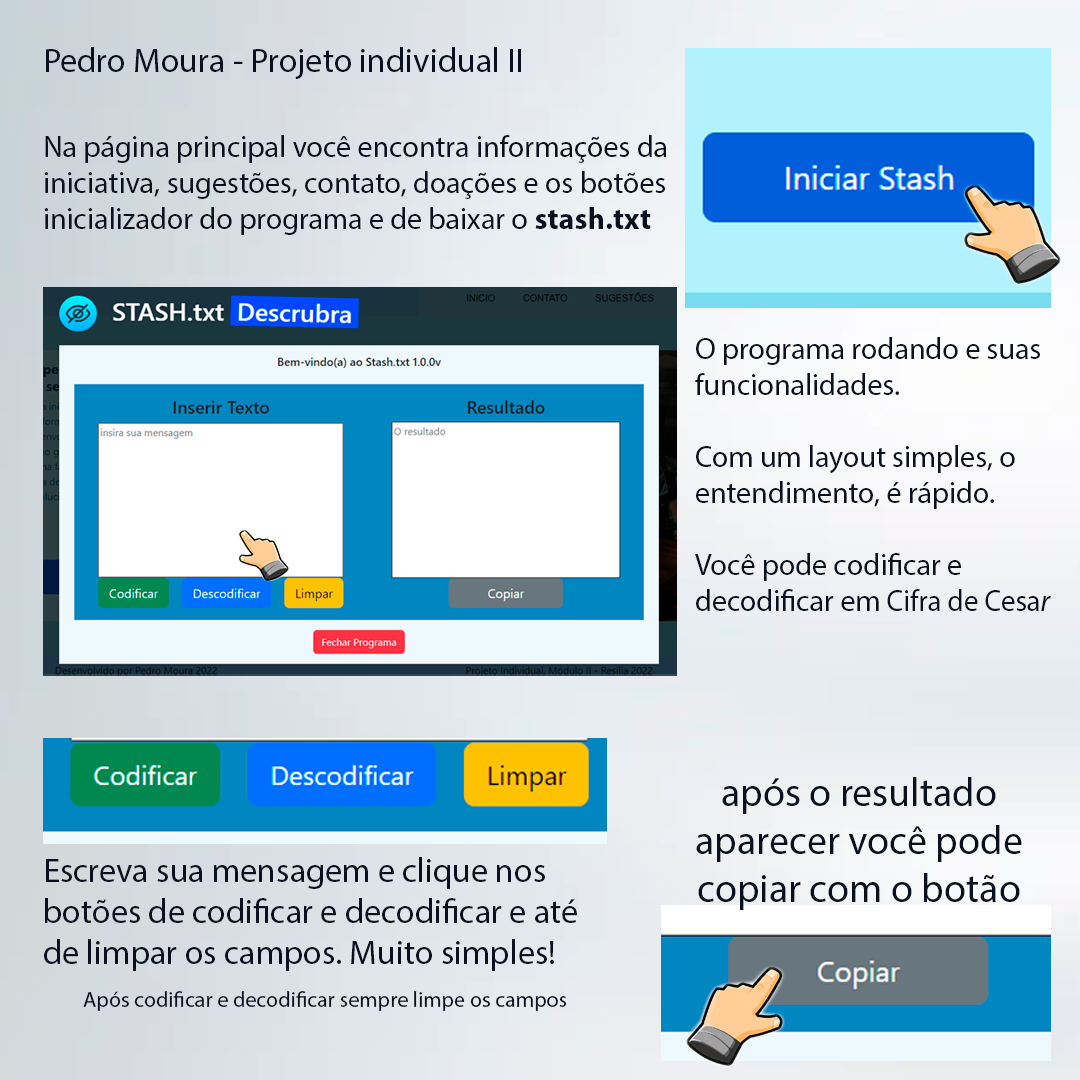
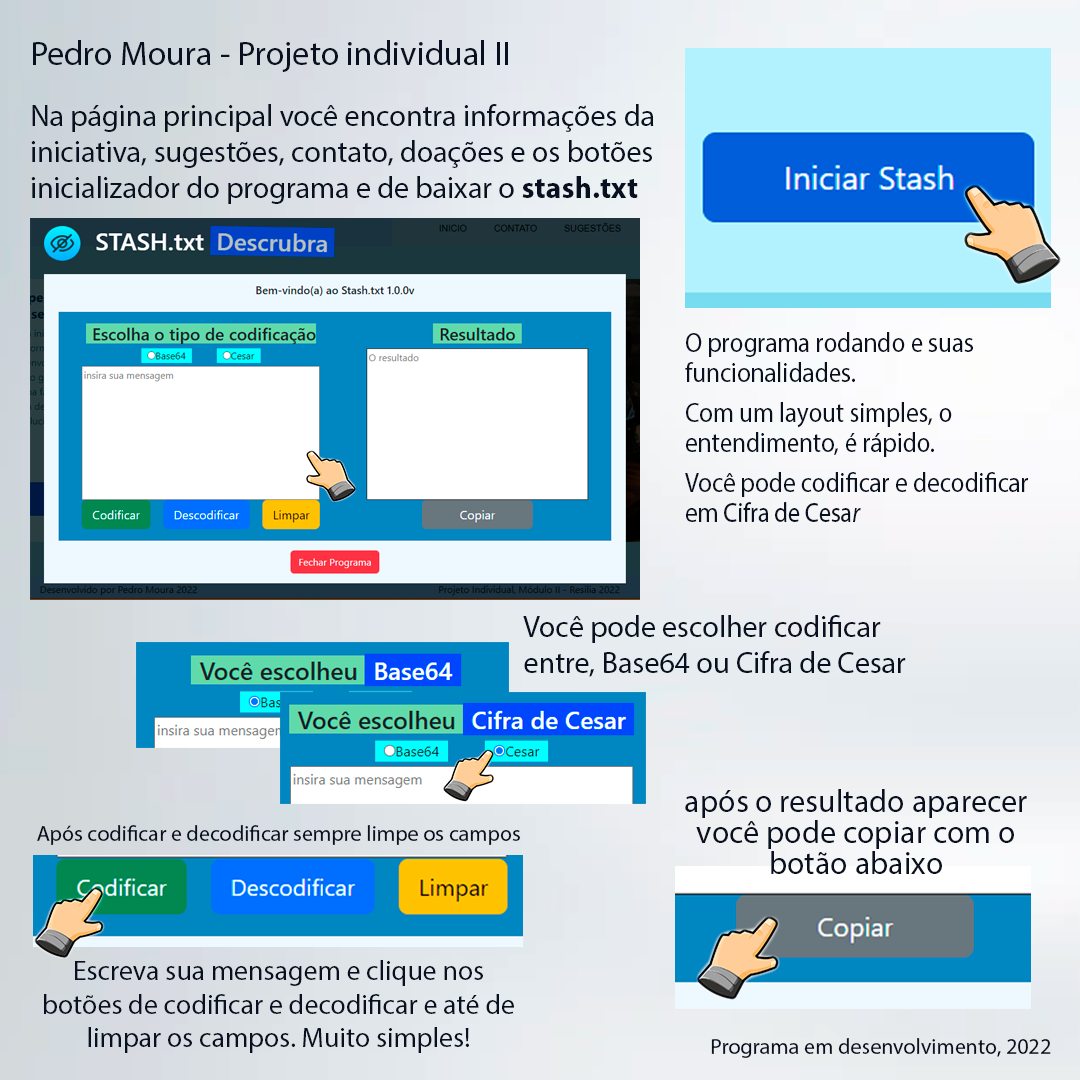
add(html,Css)last features archivies
HTML add radio btns
CSS style btns and titles
Readme.md update img
package.JSON

diff --git a/index.html.html b/index.html.html
@@ -1,0 +1,145 @@
+<!DOCTYPE html>
+<html lang="pt-br">
+	<head>
+		<meta charset="UTF-8">
+		<meta name="viewport" content="width=device-width">
+		<title>Stash Texto</title>
+		<link rel="stylesheet" href="assets/reset.css">
+		<link rel="stylesheet" href="assets/menu.css">
+		<link rel="stylesheet" href="assets/home.css">
+		<link rel="stylesheet" href="assets/footer.css">
+		
+        <!-- modals-->
+        <link rel="stylesheet" href="assets/titulo-programa.css">
+        <link rel="stylesheet" href="assets/modalPrograma.css">
+
+        <!-- BootStrap-->
+        <link href="https://cdn.jsdelivr.net/npm/bootstrap@5.2.2/dist/css/bootstrap.min.css" rel="stylesheet" integrity="sha384-Zenh87qX5JnK2Jl0vWa8Ck2rdkQ2Bzep5IDxbcnCeuOxjzrPF/et3URy9Bv1WTRi" crossorigin="anonymous">
+        <!-- font awesome -->
+	
+    </head>
+	<body>
+        <article class="modal__programa">
+            <div class="modal__content">
+
+                <div class="titulo-programa">
+                    <div class="icone-titulo">
+                        <img src="assets/img/hidden.png" alt="" class="icon-content">
+                    </div>
+                    <h1>
+                        
+                        STASH.txt
+                        <div class="funcionalidades-animadas">
+                            <span style="--d: 0s">Codifique</span>
+                            <span style="--d: 3s">Decodifique</span>
+                            <span style="--d: 6s">Descrubra</span>
+                            <span style="--d: 9s">Esconda</span>
+                        </div>
+                    </h1>
+                </div>
+                <div class="programa__container">
+                    <div class="programa-titulo">
+                        <h3>Bem-vindo(a) ao Stash.txt 1.0.0v </h3>
+                    </div>
+                    <div class="programa__content">
+                        <div class="inserir__textarea">
+                            <h3 id="tituloTipo">Escolha o tipo de codificação</h3>
+                            <form action="" id="btns-tipo">
+                                <div>
+                                    <input id="my-radio" type="radio" class="btn-tipo">Base64</input>
+                                </div>
+                                <div>
+                                <input id="my-radio1" type="radio" class="btn-tipo1">Cesar</input>
+                                </div>
+                            </form>
+                            
+                            <textarea name="text" id="campo-texto" class="inserir-texto" cols="50" rows="10" placeholder="insira sua mensagem"></textarea>
+                            
+                            <div class="botoes__container">
+                                <button type="submit" class="btn btn-success btn-lg" onclick="codificarTexto()" value="Codificar">Codificar</button>
+                                <button class="btn btn-primary btn-lg" onclick="decodificarTexto()">Descodificar</button>
+                                <button class="btn btn-warning btn-lg" onclick="limparCampo()">Limpar</button>
+                            </div>
+                        </div>
+                        <div class="resultado">
+                            <h3>Resultado</h3>
+                            <textarea name="text" id="campo-texto" class="resultado-texto resultado-content" cols="50" rows="10" placeholder="O resultado"></textarea>
+                            <button class="btn-copiar btn btn-secondary btn-lg" onclick="copiarResultado()">Copiar</button>
+                        </div>
+                    </div>
+                    <button type="button" class="fechar-programa btn btn-danger">Fechar Programa</button>
+                </div>
+            </div>
+        </article>
+        <header>
+            <div class="icone__container">
+                <img src="assets/img/hidden.png" alt="" class="icon-content">
+            </div>
+            <nav class="menu__align">
+                <ul class="menu__container">
+                    <a href="#" class="menu-link inicio"><li class="menu-item">Inicio</li></a>
+                    <a href="#" class="menu-link contato"><li class="menu-item">Contato</li></a>
+                    <a href="#" class="menu-link sugestoes"><li class="menu-item">Sugestões</li></a>
+                    <a href="#" class="menu-link doacoes"><li class="menu-item">Doações</li></a>
+                </ul>
+            </nav>
+
+        </header>
+        
+        <main>
+            <article class="apresentacao__container">
+                <div class="apresentacao__content">
+                    <div class="esquerda-content">
+                        <div>
+                            <h1 class="titulo-apresentacao">Já pensou em enviar mensagens <a>Ocultas</a> dentro do seu ciclo social?! conheça o <a>STASH.txt</a></h1>
+                            <p class="descricao-apresentacao">Uma iniciativa do Projeto individual em grupo, para ser desenvolvida conforme o tempo.
+                                O aplicativo Stash dá seus primeiros passos em seu desenvolvimento, com sua primeira versão e as demais por padrão como 
+                                gratuita e totalmente aberta a sugestões e doações de códigos, venha fazer parte desta ideia,
+                                já consolidada no mercado, entretanto a ideia de codificar e enviar entre seu ciclo social através de SMS é revolucionária,
+                                fique por dentro desta iniciativa na aba de contatos.
+                            </p>
+                        </div>
+                        <div class="botoes">
+                            <button class="iniciar-programa btn btn-primary btn-lg">Iniciar Stash</button>
+                            <button class="baixar-programa btn btn-primary btn-lg">Baixar o Stash</button>
+                        </div>
+                    </div>
+                    <div class="direita-content fundo"></div>
+                </div>
+            </article>
+
+            <article class="modal__contato">
+                <div class="modal__container">
+
+                </div>
+            </article>
+
+            <article class="modal__sugestoes">
+                <div class="modal__container">
+
+                </div>
+            </article>
+
+            <article class="modal__doacoes">
+                <div class="modal__container">
+
+                </div>
+            </article>
+
+            
+        </main>
+        
+		
+        <footer>
+			<div class="rodape__assinatura">
+				<p>Desenvolvido por Pedro Moura 2022</p>
+				<p>Projeto Individual, Módulo II - Resilia 2022</p>
+			</div>
+		</footer>
+
+		<script src="scripts/fecharPrograma.js"></script>
+		<script src="scripts/codificador.js"></script>
+		<script src="scripts/tipo.js"></script>
+
+	</body>
+</html>

diff --git a/assets/modalPrograma.css b/assets/modalPrograma.css
@@ -49,6 +49,7 @@
     font-size: 18px;
     margin-top: 1rem;
 }
+
 .programa__content {
     background-color: rgb(70, 133, 189);
     width: 95%;
@@ -57,6 +58,29 @@
     align-items: center;
     justify-content: space-around;
     margin: 1rem;
+}
+
+#tituloTipo {
+    background-color: rgb(144, 217, 172);
+    padding-left: 10px;
+}
+
+#tituloTipo a{
+    color: white;
+    background-color: rgb(0, 72, 255);
+    padding-inline: 10px;
+}
+
+#btns-tipo {
+    width: 50%;
+    display: flex;
+    justify-content: space-between;
+}
+
+#btns-tipo div {
+    background-color: aqua;
+    padding-inline: 10px;
+    margin-bottom: .3rem;
 }
 
 .inserir__textarea {
@@ -75,6 +99,11 @@
     width: 100%;
     display: flex;
     justify-content: space-between;
+}
+
+.resultado h3 {
+    background-color: rgb(144, 217, 172);
+    padding-inline: 10px;
 }
 
 .resultado {
